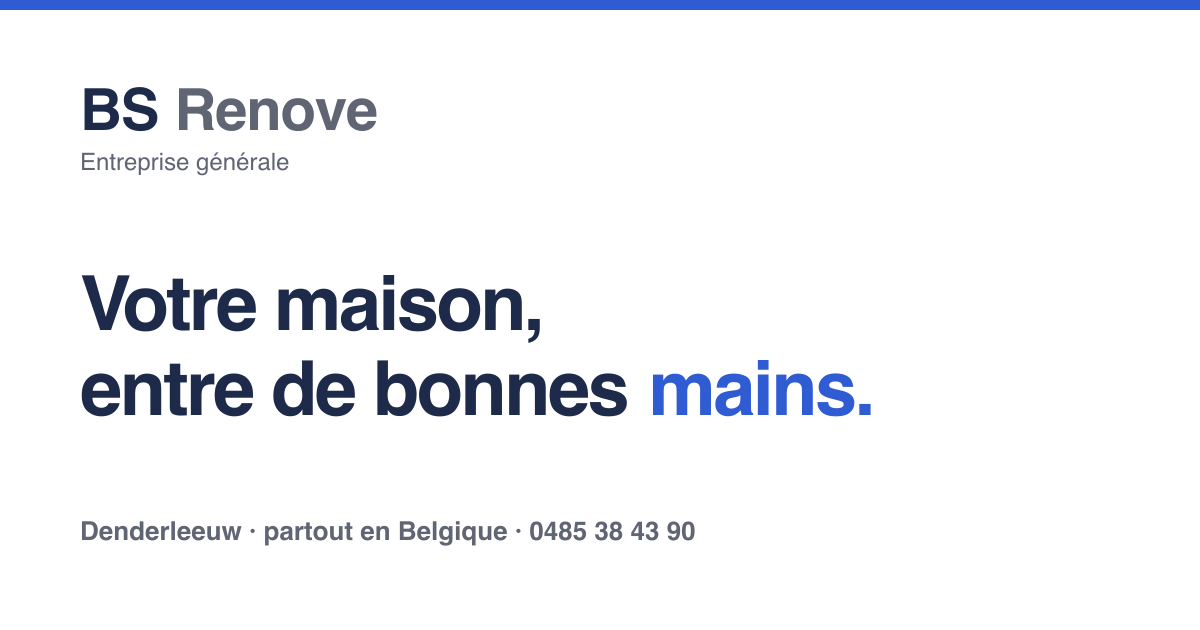
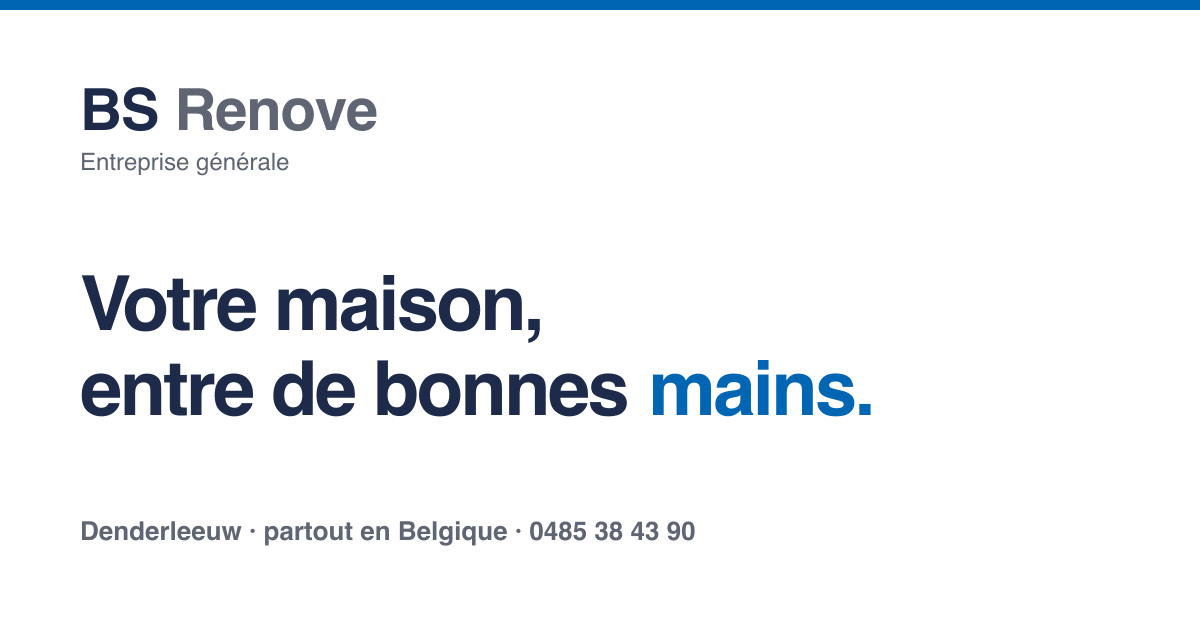
Dernier lot de photos : les 7 projets du départ ont enfin tous de vraies photos
Sergiu a prévenu que c'était le dernier lot de tags (32 photos, aucune
écartée pour la vie privée). Les 3 derniers projets vides sont maintenant
publiés :
- renovation-interieure-ostende : salle de bain + toiture, 15 photos
- salle-de-bain-watermael-boitsfort : couverture + 1 paire avant/après
- toiture-woluwe-saint-pierre : couverture + 3 photos

Deux tags sans adresse (Vitres, Toitures) enrichissent les photos de
service au lieu d'être présentés comme des réalisations.

Couleur du site calée sur le vrai bleu du logo (mesuré sur le fichier :
#0066b4, contraste 5,9:1 sur blanc) au lieu du bleu provisoire.

Site vérifié avec de vraies captures d'écran mobile et desktop (playwright,
ajouté en dépendance de dev) plutôt qu'en lisant le code seul — a permis de
repérer et corriger une couverture de projet mal associée avant la mise en
ligne (renovation-parquet-menuiseries montrait un plafond en travaux au lieu
de la pièce terminée).

Changed region(s): [[0.0, 0.0, 1.0, 0.0302], [0.5242, 0.573, 0.74, 0.6635]]

diff --git a/src/data/services-photos.ts b/src/data/services-photos.ts
@@ -12,6 +12,10 @@ import exempleCarrelage2 from '~/assets/services/carrelage/exemple-2.jpg';
 import exempleCarrelage3 from '~/assets/services/carrelage/exemple-3.jpg';
 import exempleCarrelage4 from '~/assets/services/carrelage/exemple-4.jpg';
 import exempleRenovationComplete from '~/assets/services/renovation-complete/exemple-1.jpg';
+import exempleRenovationComplete2 from '~/assets/services/renovation-complete/exemple-2.jpg';
+import exempleRenovationComplete3 from '~/assets/services/renovation-complete/exemple-3.jpg';
+import exempleToiture1 from '~/assets/services/toiture/exemple-1.jpg';
+import exempleToiture2 from '~/assets/services/toiture/exemple-2.jpg';
 import exempleElectricite from '~/assets/services/electricite/exemple-1.jpg';
 import woluweCouverture from '~/assets/projets/renovation-woluwe-saint-pierre/cover.jpg';
 import woluweDoubleVasque from '~/assets/projets/renovation-woluwe-saint-pierre/detail-1.jpg';
@@ -23,10 +27,10 @@ import woluweAuventLarge from '~/assets/projets/renovation-woluwe-saint-pierre/d
 import woluweGainesElec from '~/assets/projets/renovation-woluwe-saint-pierre/chantier-3.jpg';
 
 export const photosServices: Partial<Record<string, ImageMetadata[]>> = {
-  'renovation-complete': [exempleRenovationComplete, woluweCouverture],
+  'renovation-complete': [exempleRenovationComplete, woluweCouverture, exempleRenovationComplete2, exempleRenovationComplete3],
   'salles-de-bain': [exempleSallesDeBain, woluweDoucheFinie, woluweDoubleVasque],
   cuisines: [woluweCuisineEnsemble, woluweCuisineDetail],
   carrelage: [exempleCarrelage1, exempleCarrelage2, exempleCarrelage3, exempleCarrelage4],
-  toiture: [woluweAuventFini, woluweAuventLarge],
+  toiture: [woluweAuventFini, woluweAuventLarge, exempleToiture1, exempleToiture2],
   electricite: [exempleElectricite, woluweGainesElec],
 };

diff --git a/src/styles/tokens.css b/src/styles/tokens.css
@@ -10,8 +10,8 @@
   --color-surface-2: #eef1f5;   /* conteneurs secondaires, sélecteur de langue */
   --color-ink: #1d2a4a;         /* titres, texte fort, bloc contact */
   --color-ink-rgb: 29, 42, 74; /* pour les fonds semi-transparents */
-  --color-accent: #2f5bd3;      /* boutons principaux, liens */
-  --color-accent-dark: #2549a8; /* survol du bouton principal */
+  --color-accent: #0066b4;      /* boutons principaux, liens — calé sur le bleu du logo */
+  --color-accent-dark: #005290; /* survol du bouton principal */
   --color-text: #4b5160;        /* texte courant */
   --color-muted: #5f6573;       /* texte secondaire */
   --color-border: #d5dae1;      /* bordures */

diff --git a/docs/contenu-manquant.md b/docs/contenu-manquant.md
@@ -580,3 +580,61 @@ les deux, par message :
   confirmer ».
 
 Les deux pages n'affichent donc plus aucun `[À CONFIRMER]` lié à ces deux sujets.
+
+---
+
+## 14. Dernier lot de photos : le site est complet (22 septembre 2026, soir)
+
+Sergiu a prévenu : ces 6 derniers tags sont les derniers, plus aucune photo à
+attendre. 32 photos vérifiées une par une (aucune écartée pour la vie privée
+cette fois), et les 3 derniers projets encore vides ont enfin de vraies photos.
+
+| Projet | Avant | Après ce round |
+|---|---|---|
+| `renovation-interieure-ostende` | vide | ✅ publié — 15 photos (salle de bain + toiture) |
+| `salle-de-bain-watermael-boitsfort` | vide | ✅ publié — couverture + 1 paire avant/après |
+| `toiture-woluwe-saint-pierre` | vide | ✅ publié — couverture + 3 photos |
+
+**Les 7 projets du départ ont maintenant tous de vraies photos, sauf
+`cuisine-ixelles`** (qui attend toujours une vraie photo de la cuisine
+elle-même — voir § 13). Le site public passe de 2 à 5 projets visibles.
+
+Le tag « WoluweSaintPierre_Toit » correspond à une **autre adresse** que le
+grand chantier « Avenue Manoir d'Anjou » déjà utilisé pour
+`renovation-woluwe-saint-pierre` (le dossier source s'appelle « Toit Palmier »)
+— les deux sont restés bien séparés, aucune photo mélangée entre les deux
+chantiers de Woluwe-Saint-Pierre.
+
+Deux tags sans adresse (« Vitres », « Toitures ») ont servi à enrichir les
+photos de service (Rénovation complète, Toiture), comme le tag « Parquet »
+plus tôt — jamais présentés comme une réalisation avec une commune inventée.
+
+**Erreur trouvée et corrigée en cours de route** : la couverture du projet
+`renovation-parquet-menuiseries` montrait par erreur une photo de plafond en
+travaux au lieu de la belle pièce avec parquet et portes-fenêtres prévue.
+Repéré en comparant le rendu du site aux photos sources, corrigé avant la mise
+en ligne (la photo de plafond n'est pas perdue : elle est maintenant dans la
+galerie du même projet, correctement légendée).
+
+### Couleur du site calée sur le logo
+
+Le bleu `--color-accent` était provisoire depuis le début (`#2f5bd3`, choisi
+au hasard en attendant le logo). Sergiu a envoyé le logo dans ce round : le
+bleu du site est maintenant `#0066b4`, la couleur dominante du logo
+(mesurée directement sur le fichier, pas approximée à l'œil). Contraste
+vérifié : 5,9:1 sur fond blanc, largement au-dessus du minimum accessible
+(4,5:1). Un seul endroit à changer si Sergiu préfère une autre nuance :
+`src/styles/tokens.css`.
+
+### Vérification visuelle mobile et desktop
+
+Le site a été vérifié avec des captures d'écran réelles (mobile 390px et
+desktop 1440px), pas seulement en lisant le code — conformément à la
+consigne « mobile d'abord ». Vérifiés : le hero et sa photo, la barre fixe
+« Appeler / WhatsApp » sur mobile, le curseur avant/après, la grille de
+photos par service, les pages projet. Rien de cassé trouvé après la
+correction de la couverture ci-dessus.
+
+`playwright` a été ajouté aux dépendances de développement (`devDependencies`)
+pour permettre ce genre de vérification visuelle à l'avenir — ne sert qu'en
+local, n'affecte pas le site publié.
